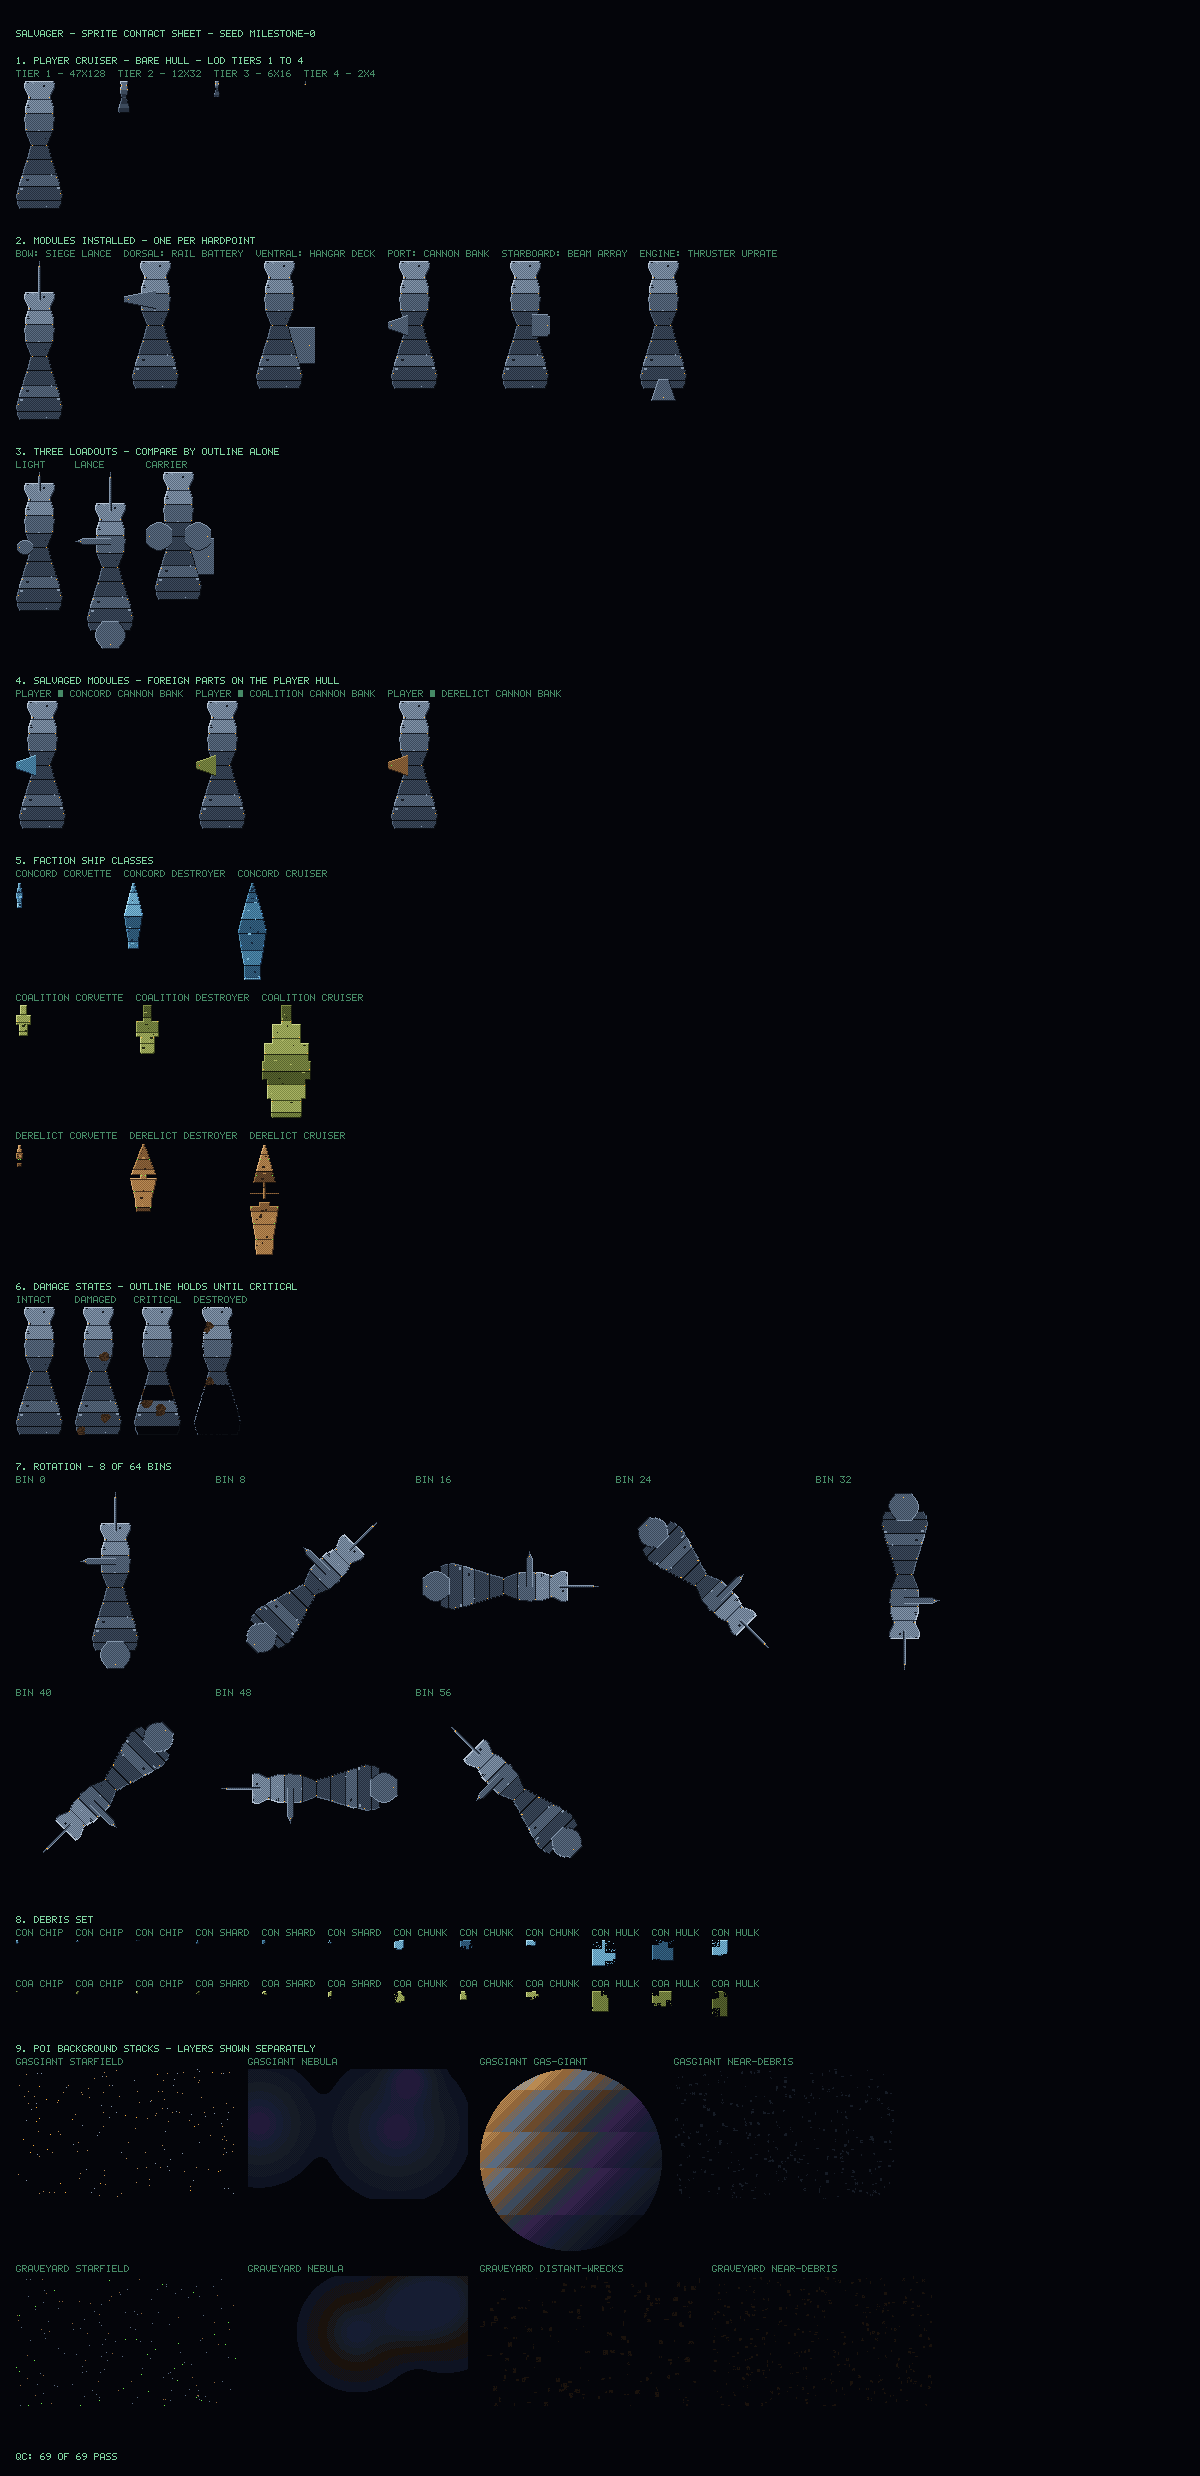
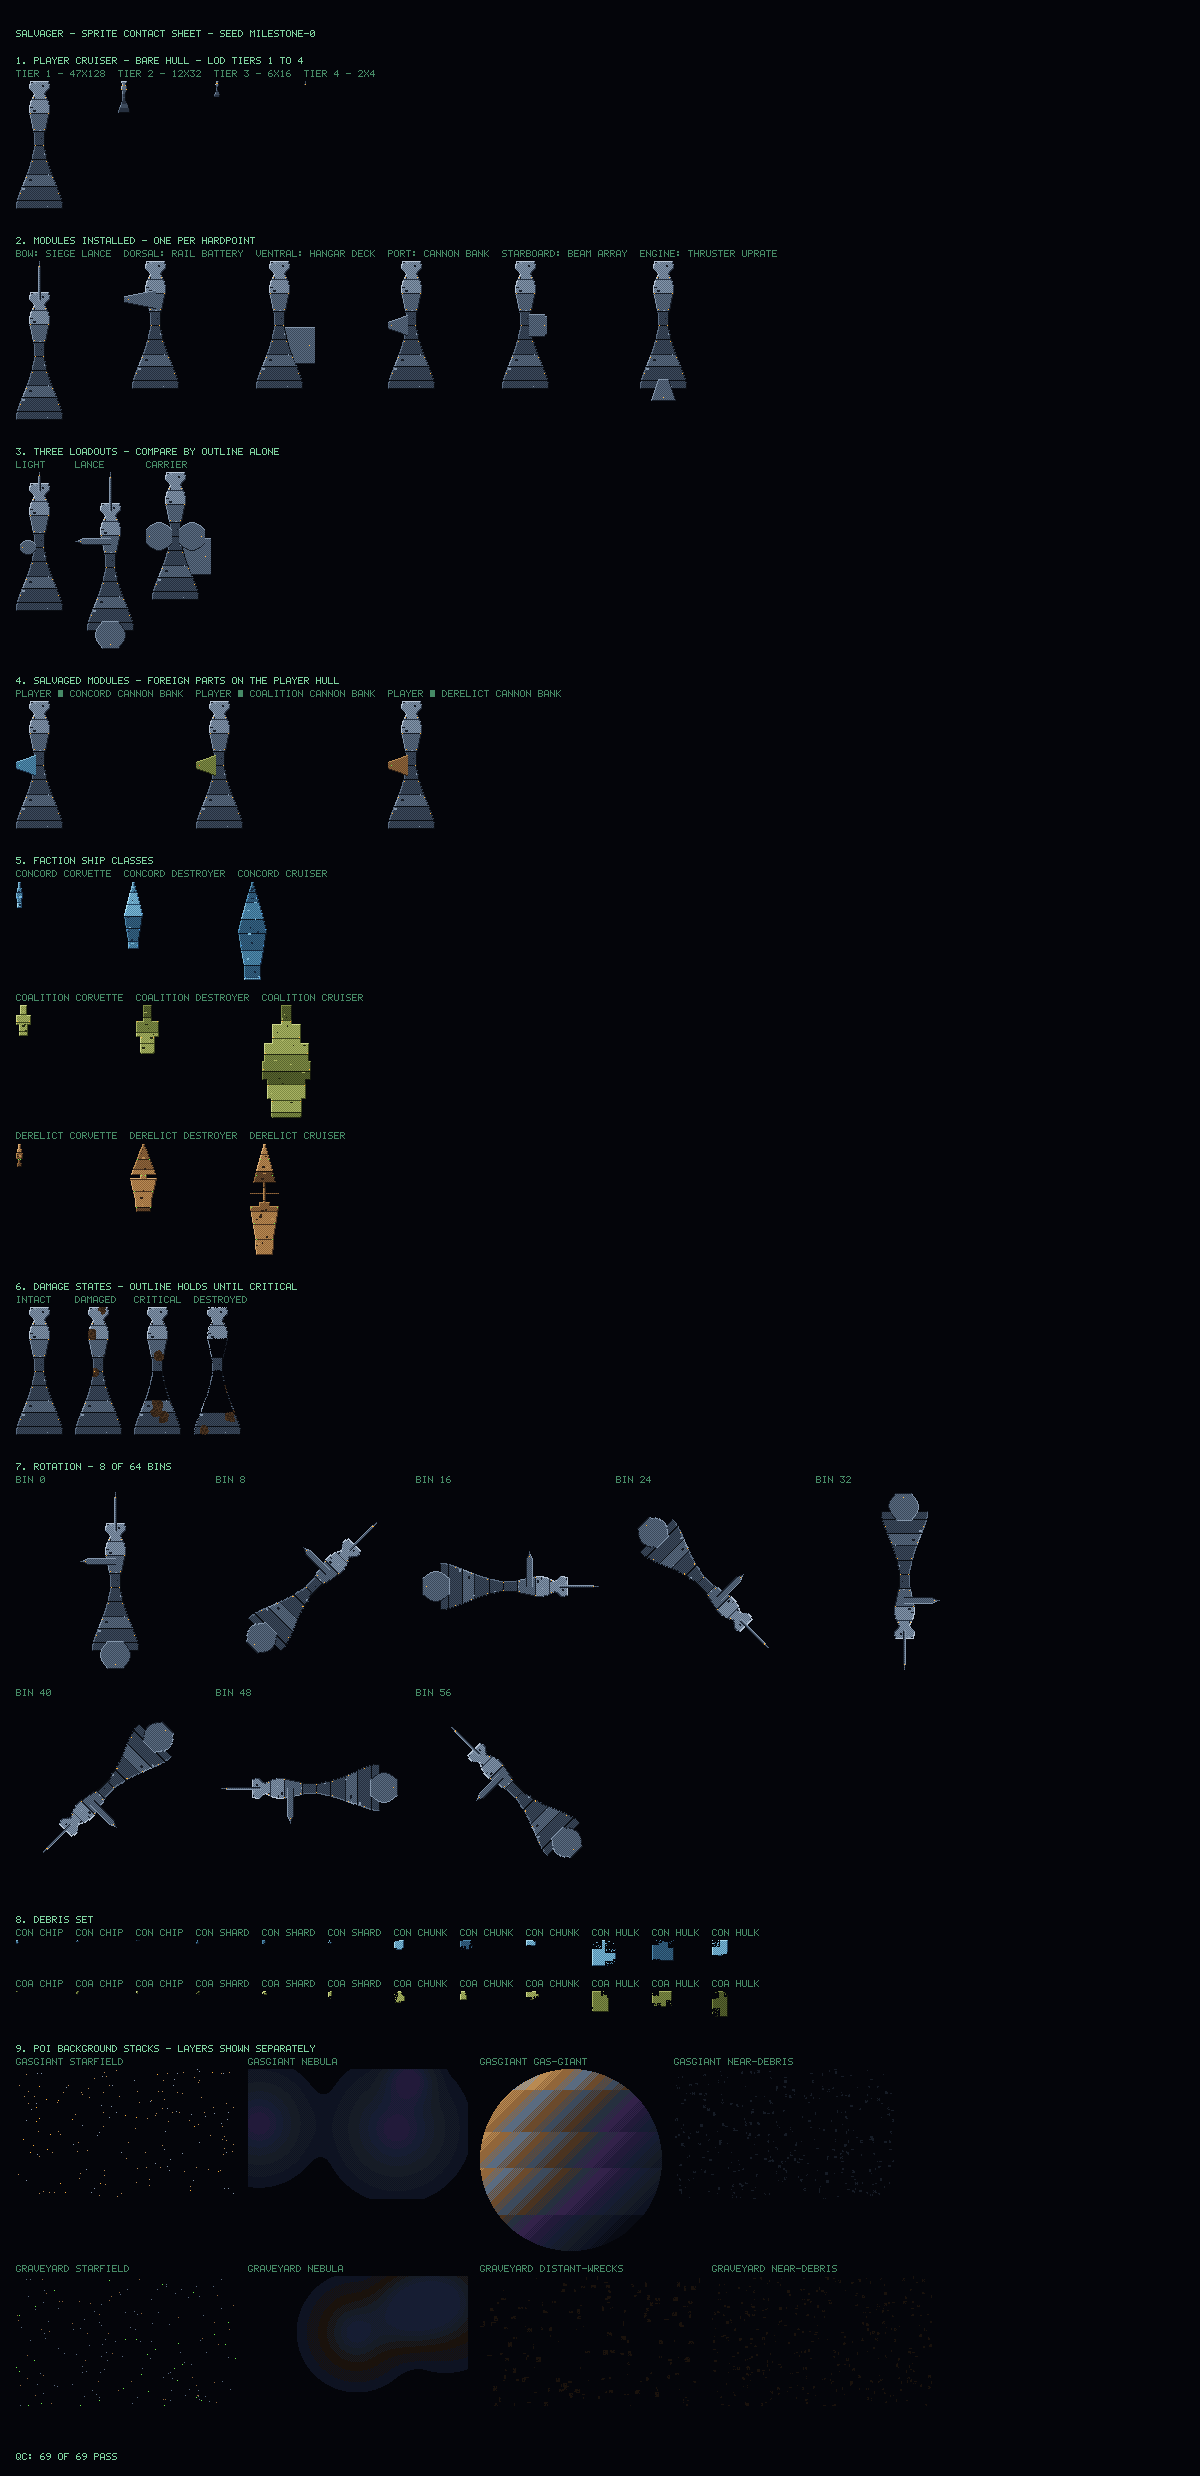
fix: give the player hull a fore/aft read and stop derelicts disconnecting
The player PLAYER_HULL control polygon paired a bow-heavy jaw with a
stern-heavy drive section of comparable size and shape, so the hull was
nearly the same silhouette rotated 180 degrees (rotation-overlap metric:
mean 0.756, worst 0.790 across seeds/sizes). Replaced it with a polygon
where bow and stern differ in kind, not just width: a modest, blocky
notched bow against a stern that is one continuous flare and the hull's
single widest point (after: mean 0.585, worst 0.673).

Separately, erode() could round a bitten row's half-width to 0, and
plates.ts skips zero-width rows entirely, so a zeroed interior row split
a derelict hull into disconnected sprites sharing a canvas (measured:
181/500 derelict hulls across all sizes had >1 connected component).
Floored erosion at half-width 1 instead of 0. The same rounding gap
existed independently in the curve-sampling loop and the
maxHalfWidth-vs-length rescale guard, both now fixed the same way and
verified across all factions/sizes, not just derelict (after: 0/500).

Added regression tests for both: fore/aft asymmetry (rotation-overlap
threshold) and connectivity (no interior zero-width row), swept hard
for derelict. Rewrote the one pre-existing test that required a derelict
profile to contain an interior gap — it was asserting the exact
disconnection defect being fixed here; see the report for the measured
evidence.

Full details, before/after ASCII renders, and measurements in
[…]

diff --git a/src/gen/grammar/profile.ts b/src/gen/grammar/profile.ts
@@ -12,7 +12,8 @@
  *   concord    a milled wedge — continuous taper, narrow bow, flared stern
  *   coalition  welded slabs — long constant-width runs with abrupt shoulders
  *   derelict   an eroded hull — a base shape with bites taken out of it
- *   player     a working salvager — blunt bow, slab sides, heavy midsection
+ *   player     a working salvager — modest notched bow, narrow spine, a
+ *              stern engine block wider than everything ahead of it
  */
 
 import type { Rng } from '../../sim/rng.js';
@@ -65,12 +66,23 @@ function concordCurve(t: number): number {
 }
 
 /**
- * A working salvager: broad squared bow with a central notch (the salvage
- * maw wrecks get drawn into), a waist pinched in amidships, and a heavy
- * engine block aft wider than anything ahead of it. This is the shape the
- * hull is built around — an hourglass with a bow-heavy jaw and a stern-heavy
- * drive section — rather than a taper (Concord) or a stack of constant-width
- * runs (Coalition).
+ * A working salvager: a modest, squared forward block with a central notch
+ * (the salvage maw wrecks get drawn into), a long narrow spine amidships, and
+ * a heavy engine block aft that is both the widest mass on the hull and wider
+ * than the bow block by a wide margin. Three differentiated masses — not a
+ * taper (Concord), not a stack of constant-width runs (Coalition), and not
+ * the earlier stack of near-equal lozenges this replaced.
+ *
+ * That earlier version paired a bow-heavy jaw with a stern-heavy drive
+ * section of *comparable* size, which made the hull read as nearly the same
+ * shape rotated 180° — a contact-sheet review measured it at ~0.76-0.79
+ * overlap against its own reversal (see the `rotationOverlap` metric in
+ * profile.test.ts) and called it a turned-wood baluster. The fix here is not
+ * "pinch the waist harder", it is asymmetry of *kind*: the bow stays modest
+ * and blocky (notch, short plateaus, nothing past ~0.44 of peak width) while
+ * the stern is one continuous flare that is *never* matched by anything
+ * forward of the spine — the widest point on the whole hull sits at the very
+ * stern. Reversed, this hull cannot be mistaken for itself.
  *
  * Expressed as a control polygon rather than a formula: each pair is
  * [fraction of length, half-width as a fraction of the peak], linearly
@@ -78,19 +90,20 @@ function concordCurve(t: number): number {
  * the point — it reads as milled panels bolted together, not a milled curve.
  */
 const PLAYER_HULL: ReadonlyArray<readonly [number, number]> = [
-  [0.00, 0.62], // squared bow face — broad, not a taper to a point
-  [0.045, 0.66], // bow corner
-  [0.12, 0.46], // the notch: the maw pinches in right behind the bow face
-  [0.20, 0.60], // rises back out of the notch
-  [0.30, 0.64], // forward hull — broad, but not the hull's widest (dorsal sits here)
-  [0.40, 0.58],
-  [0.50, 0.36], // waist: pinched hard amidships (port/starboard sponsons sit here)
-  [0.58, 0.48],
-  [0.66, 0.62], // ventral bay, widening again aft of the waist
-  [0.80, 0.86],
-  [0.90, 1.00], // engine block — the widest point on the hull
-  [0.97, 0.94],
-  [1.00, 0.86], // stern face narrows slightly off the engine-block peak
+  [0.00, 0.40], // squared bow face — blunt, but modest: the bow is not the ship's mass
+  [0.05, 0.44], // bow corner — a short flat plateau, not a taper to a point
+  [0.10, 0.22], // the maw: a hard notch cut into the jaw right behind the bow face
+  [0.16, 0.40], // rises back out of the notch
+  [0.24, 0.44], // forward working block (dorsal sits here) — squared, but not the hull's mass
+  [0.34, 0.32],
+  [0.44, 0.20], // the spine: narrow, offset toward the bow half (port/starboard sponsons sit here)
+  [0.54, 0.24], // climbs straight back out — a pinch, not a held plateau
+  [0.62, 0.34], // ventral bay, on the rise off the spine
+  [0.70, 0.48],
+  [0.78, 0.64], // engine block ramp — one long continuous run to the stern
+  [0.86, 0.82],
+  [0.93, 0.97],
+  [1.00, 1.00], // engine block — the widest point, right at the stern: a flare, not a point
 ];
 
 function playerCurve(t: number): number {
@@ -150,7 +163,14 @@ export function buildProfile(spec: ProfileSpec): Profile {
         break;
     }
 
-    halfWidth[y] = Math.max(0, Math.round(shape * peak));
+    // A shape function that is strictly positive at `t` says this row is part
+    // of the hull; rounding must not override that to 0. At the small end of
+    // the size range `peak` itself can be 1-2px, and a shape fraction like a
+    // notch minimum (~0.2) rounds straight to 0 there — an interior gap with
+    // no erosion involved, splitting the silhouette exactly like the erosion
+    // bug this file's `erode` guards against. A shape of exactly 0 (the bow
+    // tip of the concord/derelict taper) is a deliberate point and stays 0.
+    halfWidth[y] = shape > 0 ? Math.max(1, Math.round(shape * peak)) : 0;
   }
 
   if (faction === 'derelict') {
@@ -186,7 +206,13 @@ export function buildProfile(spec: ProfileSpec): Profile {
     const scale = (length - 1) / (maxHalfWidth * 2);
     maxHalfWidth = 0;
     for (let y = 0; y < length; y++) {
-      halfWidth[y] = Math.floor(halfWidth[y]! * scale);
+      // Math.floor alone can round an originally-filled row down to 0, which
+      // opens exactly the interior gap this file works elsewhere to prevent
+      // (see `erode`) — a plain floor scaled a small hull's row from 1 to 0
+      // on tiny fighter-class hulls, splitting the silhouette in two. A row
+      // that was filled before rescaling stays filled after it.
+      const scaled = Math.floor(halfWidth[y]! * scale);
+      halfWidth[y] = halfWidth[y]! > 0 ? Math.max(1, scaled) : 0;
       if (halfWidth[y]! > maxHalfWidth) maxHalfWidth = halfWidth[y]!;
     }
   }
@@ -196,8 +222,18 @@ export function buildProfile(spec: ProfileSpec): Profile {
 
 /**
  * Takes bites out of a hull. Derelicts have been dead for a long time; the
- * erosion is the difference between "a ship" and "what is left of a ship", and
- * it is the only faction permitted interior gaps.
+ * erosion is the difference between "a ship" and "what is left of a ship".
+ *
+ * A bite thins a row toward nothing but must never actually reach it: `plates.ts`
+ * skips any row whose half-width is 0 (`if (half === 0) continue;`), so a single
+ * zeroed interior row paints as a fully transparent band the width of the
+ * canvas — the pixels above and below it are no longer even diagonally
+ * adjacent. Two masses of hull sharing a canvas but not a single connected
+ * pixel is not "an eroded ship", it is a broken umbrella stand: an
+ * attachment-offset bug wearing damage as an excuse. Flooring every bitten row
+ * at a half-width of 1 keeps the hull one connected object — down to a single
+ * bridging pixel column at the worst of a bite — while still reading as
+ * severely thinned, which is what erosion is for.
  */
 function erode(halfWidth: Int32Array, rng: Rng): void {
   const length = halfWidth.length;
@@ -210,7 +246,13 @@ function erode(halfWidth: Int32Array, rng: Rng): void {
     const severity = rng.range(0.45, 1);
 
     for (let y = start; y < Math.min(length, start + span); y++) {
-      halfWidth[y] = Math.max(0, Math.round(halfWidth[y]! * (1 - severity)));
+      // Never floor to 0 here: that would sever the hull into disconnected
+      // pieces (see the note above). A bitten row may still hit 0 by way of a
+      // *different* mechanism — e.g. it started at 0 already — but erosion
+      // itself must not be the thing that creates the gap.
+      if (halfWidth[y]! > 0) {
+        halfWidth[y] = Math.max(1, Math.round(halfWidth[y]! * (1 - severity)));
+      }
     }
   }
 }

diff --git a/src/gen/grammar/profile.test.ts b/src/gen/grammar/profile.test.ts
@@ -96,15 +96,27 @@ describe('profile shape', () => {
     }
   });
 
-  it('lets derelicts be eroded — they may have gaps', () => {
-    const anyGap = ['a', 'b', 'c', 'd', 'e'].some((seed) => {
+  it('lets derelicts be eroded — bites thin the hull down to a bare bridge', () => {
+    // This used to assert the opposite of what it should: that an interior
+    // row could drop clean to zero. `plates.ts` skips any row whose
+    // half-width is 0 (`if (half === 0) continue;`), so a zeroed interior row
+    // is a fully transparent band the width of the canvas — the pixels above
+    // and below it are not even diagonally adjacent, i.e. the hull renders as
+    // two or more disconnected sprites sharing a canvas. That is the exact
+    // "witch's hat floating over a barrel hull" defect a rendered contact
+    // sheet caught. Erosion is still allowed to be brutal — thinned rows
+    // should bottom out at the 1px floor, not stay comfortably wide — it just
+    // may never reach 0 on a row with hull on both sides of it. See
+    // 'never splits a hull into disconnected pieces' below for the positive
+    // connectivity guarantee this replaces.
+    const anyFloored = ['a', 'b', 'c', 'd', 'e'].some((seed) => {
       const p = build('derelict', 'cruiser', seed);
       const filled = Array.from(p.halfWidth);
       const first = filled.findIndex((w) => w > 0);
       const last = filled.length - 1 - [...filled].reverse().findIndex((w) => w > 0);
-      return filled.slice(first, last + 1).some((w) => w === 0);
+      return filled.slice(first, last + 1).some((w) => w === 1);
     });
-    expect(anyGap).toBe(true);
+    expect(anyFloored).toBe(true);
   });
 
   it('never erodes a hull out of existence', () => {
@@ -236,5 +248,87 @@ describe('queries', () => {
     let expected = 0;
     for (let y = 0; y < p.length; y++) expected += profileWidth(p, y);
     expect(profileArea(p)).toBe(expected);
+  });
+});
+
+describe('fore/aft asymmetry', () => {
+  /**
+   * Overlap-under-180°-rotation, as a fraction: treat the profile and its own
+   * row-reversal as two silhouettes and measure intersection-over-union of
+   * their per-row widths. 1.0 means the profile is pixel-identical to itself
+   * rotated 180° — the exact "turned-wood baluster" defect a contact-sheet
+   * review caught, where the bow and stern were interchangeable. 0 is
+   * unreachable for any hull that tapers at all (both ends are always
+   * somewhat narrower than the peak, so they always overlap partially); a
+   * maximally lopsided monotonic wedge from this generator's own width range
+   * still scores ~0.5-0.6. So the useful signal isn't distance from 0, it's
+   * distance from where the old hull sat.
+   */
+  function rotationOverlap(halfWidth: Int32Array): number {
+    const n = halfWidth.length;
+    let inter = 0;
+    let union = 0;
+    for (let i = 0; i < n; i++) {
+      const a = halfWidth[i]! * 2 + 1;
+      const b = halfWidth[n - 1 - i]! * 2 + 1;
+      inter += Math.min(a, b);
+      union += Math.max(a, b);
+    }
+    return inter / union;
+  }
+
+  it('gives the player hull a bow/stern silhouette that reads under 180° rotation', () => {
+    // The pre-fix player hull (seven near-radially-symmetric lozenges) scored
+    // a mean of ~0.75 and a worst case of ~0.79 on this exact metric across
+    // the same seed/size sweep — see the module doc comment on PLAYER_HULL.
+    // 0.72 sits clearly below that worst case (and well below the ~0.755
+    // mean), comfortably above the ~0.5-0.6 floor a maximally lopsided
+    // monotonic taper hits, and gives room for both per-seed beam-ratio
+    // jitter and the coarser rounding a 24-36px corvette hull is stuck with
+    // (the binding case: corvettes round to so few distinct half-widths that
+    // no amount of curve asymmetry pushes them as low as the longer classes)
+    // without the test being seed- or size-brittle.
+    const sizes: SizeClass[] = ['corvette', 'destroyer', 'cruiser', 'capital'];
+    const seeds = Array.from({ length: 30 }, (_, i) => `asym-${i}`);
+
+    let worst = -Infinity;
+    let worstAt = '';
+    for (const sizeClass of sizes) {
+      for (const seed of seeds) {
+        const p = build('player', sizeClass, seed);
+        const overlap = rotationOverlap(p.halfWidth);
+        if (overlap > worst) { worst = overlap; worstAt = `${sizeClass}/${seed}`; }
+      }
+    }
+
+    expect(worst, `worst (most self-mirroring) case: ${worstAt} = ${worst}`).toBeLessThan(0.72);
+  });
+});
+
+describe('connectivity', () => {
+  it('never splits a hull into disconnected pieces — no interior zero-width row', () => {
+    // `plates.ts` draws nothing on a row whose half-width is 0
+    // (`if (half === 0) continue;`), so any zero row strictly between the
+    // first and last filled row cuts the silhouette into two pieces that
+    // share a canvas but touch no common pixel — not even diagonally. That
+    // read as a broken umbrella stand, not a hulk, on the actual contact
+    // sheet. Derelicts are the only faction that erodes, so they are the only
+    // ones that can produce this defect, and they are swept hard here: every
+    // size class, hundreds of seeds each.
+    for (const faction of ALL_FACTIONS) {
+      const seedCount = faction === 'derelict' ? 300 : 20;
+      for (const sizeClass of ALL_SIZES) {
+        for (let i = 0; i < seedCount; i++) {
+          const p = build(faction, sizeClass, `conn-${i}`);
+          const filled = Array.from(p.halfWidth);
+          const first = filled.findIndex((w) => w > 0);
+          const last = filled.length - 1 - [...filled].reverse().findIndex((w) => w > 0);
+          if (first === -1) continue; // covered by "never erodes out of existence"
+          for (let y = first; y <= last; y++) {
+            expect(p.halfWidth[y]!, `${faction}/${sizeClass}/conn-${i} row ${y}`).toBeGreaterThan(0);
+          }
+        }
+      }
+    }
   });
 });
